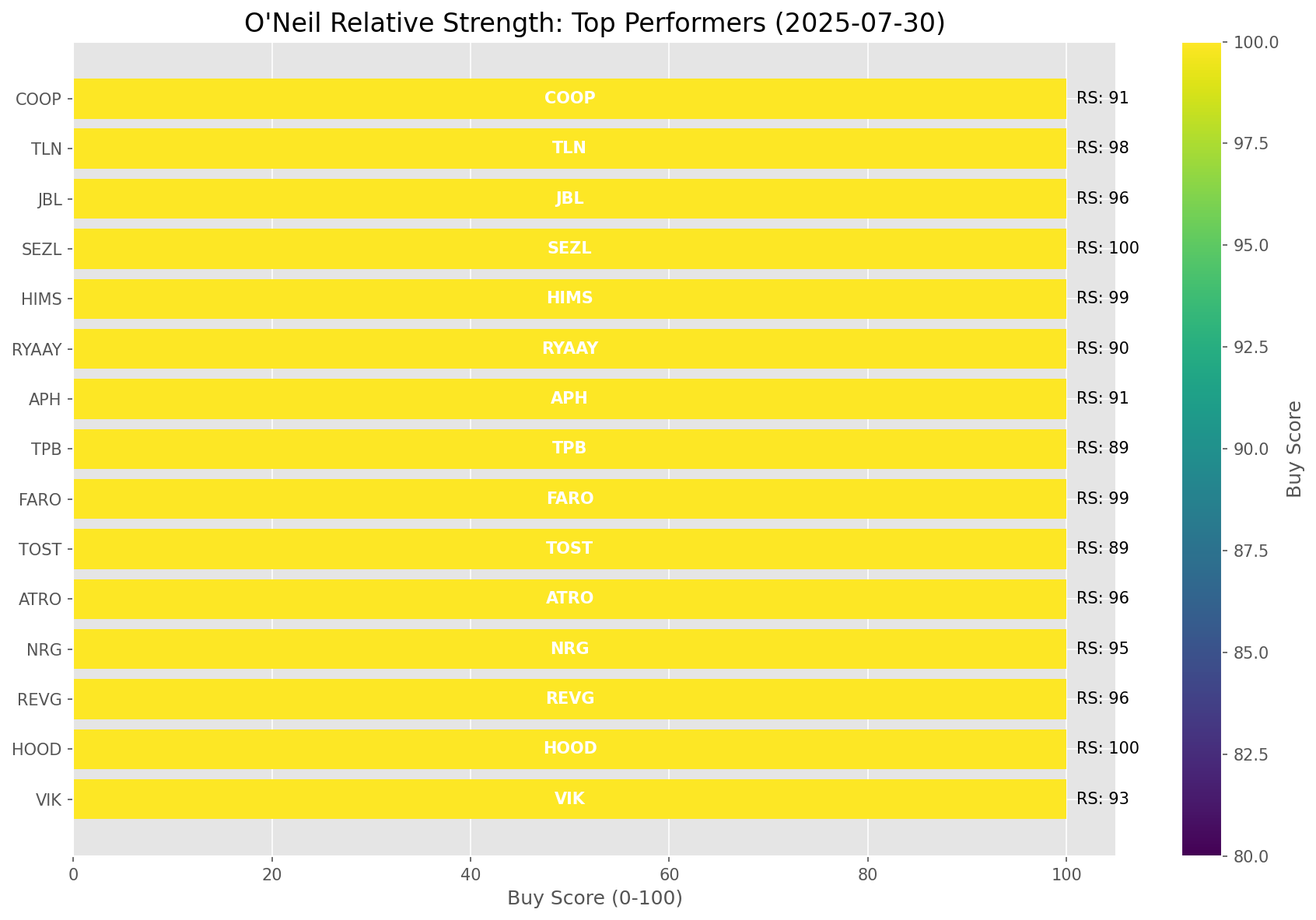
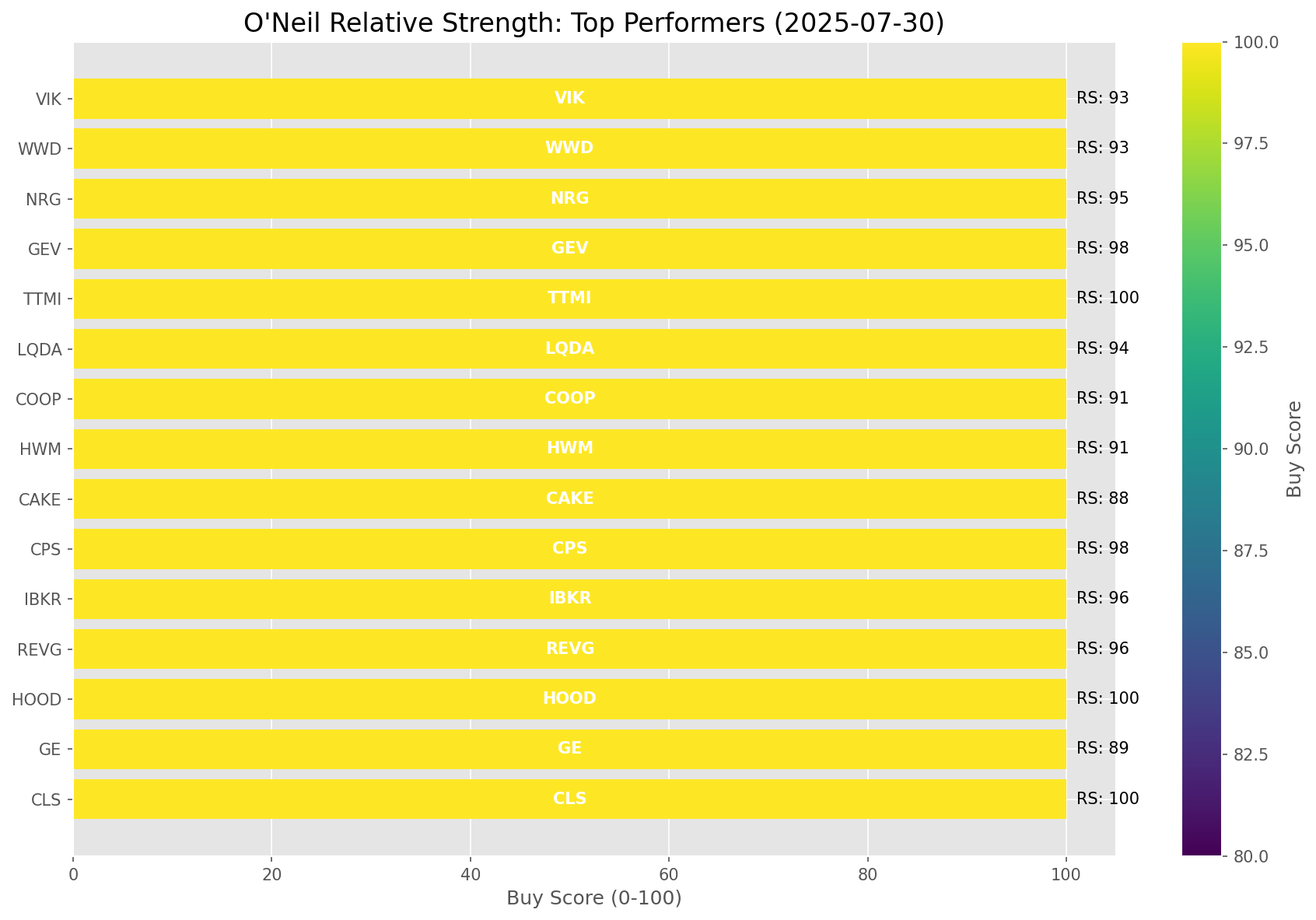
Add market report for 2025-07-30

diff --git a/oneil_relative_strength_report_2025-07-30.md b/oneil_relative_strength_report_2025-07-30.md
@@ -9,11 +9,11 @@
 | Metric | Value |
 |--------|-------|
 | **Market Valuation** | **Overvalued** |
-| **Current Ratio** | 10.32 |
+| **Current Ratio** | 10.31 |
 | **Historical Mean** | 9.50 |
 | **Standard Deviation** | 0.60 |
 | **Z-Score (StdDev from Mean)** | 1.34 |
-| **Total Market Cap** | $313.10 trillion |
+| **Total Market Cap** | $312.83 trillion |
 | **GDP** | $30.33 trillion |
 
 ## **Market Insights**
@@ -49,41 +49,41 @@ Based on William O'Neil's Relative Strength Methodology
 
 | ETF | Strength | RS Rating | Performance | Above Key MAs | Trend | Sector |
 |-----|----------|-----------|-------------|--------------|-------|--------|
-| [XLK](https://www.tradingview.com/chart/?symbol=XLK) | 91.5 | 83.0 | 26.51% | 10d ✓, 50d ✓, 200d ✓ | ↗ | Technology |
-| [URA](https://www.tradingview.com/chart/?symbol=URA) | 88.6 | 97.0 | 62.20% | 10d ✗, 50d ✓, 200d ✓ | ↗ | Uranium |
-| [AIQ](https://www.tradingview.com/chart/?symbol=AIQ) | 88.5 | 77.0 | 21.58% | 10d ✓, 50d ✓, 200d ✓ | ↗ | Artificial Intelligence & Technology |
-| [PAVE](https://www.tradingview.com/chart/?symbol=PAVE) | 88.5 | 77.0 | 21.39% | 10d ✓, 50d ✓, 200d ✓ | ↗ | Infrastructure |
+| [XLK](https://www.tradingview.com/chart/?symbol=XLK) | 91.5 | 83.0 | 26.47% | 10d ✓, 50d ✓, 200d ✓ | ↗ | Technology |
+| [URA](https://www.tradingview.com/chart/?symbol=URA) | 88.6 | 97.0 | 60.92% | 10d ✗, 50d ✓, 200d ✓ | ↗ | Uranium |
+| [PAVE](https://www.tradingview.com/chart/?symbol=PAVE) | 88.5 | 77.0 | 21.26% | 10d ✓, 50d ✓, 200d ✓ | ↗ | Infrastructure |
+| [AIQ](https://www.tradingview.com/chart/?symbol=AIQ) | 88.5 | 77.0 | 21.41% | 10d ✓, 50d ✓, 200d ✓ | ↗ | Artificial Intelligence & Technology |
+| [BLOK](https://www.tradingview.com/chart/?symbol=BLOK) | 87.6 | 95.0 | 48.15% | 10d ✗, 50d ✓, 200d ✓ | ↗ | Blockchain & Cryptocurrency |
 | [ARKW](https://www.tradingview.com/chart/?symbol=ARKW) | 87.6 | 95.0 | 50.78% | 10d ✗, 50d ✓, 200d ✓ | ↗ | Next Generation Internet |
-| [BLOK](https://www.tradingview.com/chart/?symbol=BLOK) | 87.6 | 95.0 | 48.50% | 10d ✗, 50d ✓, 200d ✓ | ↗ | Blockchain & Cryptocurrency |
-| [ARKK](https://www.tradingview.com/chart/?symbol=ARKK) | 87.1 | 94.0 | 47.08% | 10d ✗, 50d ✓, 200d ✓ | ↗ | Innovation |
-| [ARKF](https://www.tradingview.com/chart/?symbol=ARKF) | 87.1 | 94.0 | 47.13% | 10d ✗, 50d ✓, 200d ✓ | ↗ | Fintech Innovation |
-| [JETS](https://www.tradingview.com/chart/?symbol=JETS) | 79.1 | 78.0 | 21.95% | 10d ✗, 50d ✓, 200d ✓ | ↗ | Airlines |
-| [XLF](https://www.tradingview.com/chart/?symbol=XLF) | 76.0 | 52.0 | 8.66% | 10d ✓, 50d ✓, 200d ✓ | ↗ | Financial |
-| [XLI](https://www.tradingview.com/chart/?symbol=XLI) | 75.6 | 71.0 | 17.14% | 10d ✗, 50d ✓, 200d ✓ | ↗ | Industrial |
-| [SOXX](https://www.tradingview.com/chart/?symbol=SOXX) | 75.0 | 90.0 | 36.12% | 10d ✓, 50d ✓, 200d ✓ | ↘ | Semiconductors |
-| [XLU](https://www.tradingview.com/chart/?symbol=XLU) | 74.0 | 48.0 | 7.43% | 10d ✓, 50d ✓, 200d ✓ | ↗ | Utilities |
-| [SLV](https://www.tradingview.com/chart/?symbol=SLV) | 73.6 | 67.0 | 14.85% | 10d ✗, 50d ✓, 200d ✓ | ↗ | Silver |
+| [ARKK](https://www.tradingview.com/chart/?symbol=ARKK) | 87.1 | 94.0 | 46.98% | 10d ✗, 50d ✓, 200d ✓ | ↗ | Innovation |
+| [ARKF](https://www.tradingview.com/chart/?symbol=ARKF) | 87.1 | 94.0 | 47.34% | 10d ✗, 50d ✓, 200d ✓ | ↗ | Fintech Innovation |
+| [JETS](https://www.tradingview.com/chart/?symbol=JETS) | 79.1 | 78.0 | 21.85% | 10d ✗, 50d ✓, 200d ✓ | ↗ | Airlines |
+| [XLF](https://www.tradingview.com/chart/?symbol=XLF) | 76.0 | 52.0 | 8.59% | 10d ✓, 50d ✓, 200d ✓ | ↗ | Financial |
+| [XLI](https://www.tradingview.com/chart/?symbol=XLI) | 75.6 | 71.0 | 16.89% | 10d ✗, 50d ✓, 200d ✓ | ↗ | Industrial |
+| [SOXX](https://www.tradingview.com/chart/?symbol=SOXX) | 75.0 | 90.0 | 36.02% | 10d ✓, 50d ✓, 200d ✓ | ↘ | Semiconductors |
+| [XLU](https://www.tradingview.com/chart/?symbol=XLU) | 74.0 | 48.0 | 7.35% | 10d ✓, 50d ✓, 200d ✓ | ↗ | Utilities |
+| [SLV](https://www.tradingview.com/chart/?symbol=SLV) | 73.1 | 66.0 | 14.62% | 10d ✗, 50d ✓, 200d ✓ | ↗ | Silver |
 | [IYZ](https://www.tradingview.com/chart/?symbol=IYZ) | 70.6 | 61.0 | 12.49% | 10d ✗, 50d ✓, 200d ✓ | ↗ | Telecommunications |
-| [XLY](https://www.tradingview.com/chart/?symbol=XLY) | 70.6 | 61.0 | 12.48% | 10d ✗, 50d ✓, 200d ✓ | ↗ | Consumer Discretionary |
-| [XLC](https://www.tradingview.com/chart/?symbol=XLC) | 69.1 | 58.0 | 11.51% | 10d ✗, 50d ✓, 200d ✓ | ↗ | Communications |
-| [KWEB](https://www.tradingview.com/chart/?symbol=KWEB) | 68.1 | 56.0 | 10.57% | 10d ✗, 50d ✓, 200d ✓ | ↗ | Chinese Internet |
-| [CIBR](https://www.tradingview.com/chart/?symbol=CIBR) | 58.2 | 56.0 | 10.38% | 10d ✗, 50d ✗, 200d ✓ | ↗ | Cybersecurity |
-| [IBB](https://www.tradingview.com/chart/?symbol=IBB) | 54.0 | 48.0 | 7.41% | 10d ✓, 50d ✓, 200d ✓ | ↘ | Biotechnology |
-| [DBC](https://www.tradingview.com/chart/?symbol=DBC) | 53.0 | 46.0 | 6.88% | 10d ✓, 50d ✓, 200d ✓ | ↘ | Commodities |
-| [XLE](https://www.tradingview.com/chart/?symbol=XLE) | 52.5 | 45.0 | 6.45% | 10d ✓, 50d ✓, 200d ✓ | ↘ | Energy |
+| [XLY](https://www.tradingview.com/chart/?symbol=XLY) | 70.6 | 61.0 | 12.31% | 10d ✗, 50d ✓, 200d ✓ | ↗ | Consumer Discretionary |
+| [XLC](https://www.tradingview.com/chart/?symbol=XLC) | 69.6 | 59.0 | 11.75% | 10d ✗, 50d ✓, 200d ✓ | ↗ | Communications |
+| [CIBR](https://www.tradingview.com/chart/?symbol=CIBR) | 68.6 | 57.0 | 10.80% | 10d ✗, 50d ✓, 200d ✓ | ↗ | Cybersecurity |
+| [KWEB](https://www.tradingview.com/chart/?symbol=KWEB) | 67.6 | 55.0 | 10.07% | 10d ✗, 50d ✓, 200d ✓ | ↗ | Chinese Internet |
+| [IBB](https://www.tradingview.com/chart/?symbol=IBB) | 55.5 | 51.0 | 8.05% | 10d ✓, 50d ✓, 200d ✓ | ↘ | Biotechnology |
+| [DBC](https://www.tradingview.com/chart/?symbol=DBC) | 55.0 | 50.0 | 7.80% | 10d ✓, 50d ✓, 200d ✓ | ↘ | Commodities |
 | [ICLN](https://www.tradingview.com/chart/?symbol=ICLN) | 52.1 | 64.0 | 13.80% | 10d ✗, 50d ✓, 200d ✓ | ↘ | Clean Energy |
-| [IYT](https://www.tradingview.com/chart/?symbol=IYT) | 51.6 | 63.0 | 13.18% | 10d ✗, 50d ✓, 200d ✓ | ↘ | Transportation |
-| [ARKG](https://www.tradingview.com/chart/?symbol=ARKG) | 50.1 | 60.0 | 12.05% | 10d ✗, 50d ✓, 200d ✓ | ↘ | Genomics |
-| [IYR](https://www.tradingview.com/chart/?symbol=IYR) | 50.0 | 40.0 | 4.38% | 10d ✓, 50d ✓, 200d ✓ | ↘ | Real Estate |
-| [ITB](https://www.tradingview.com/chart/?symbol=ITB) | 46.8 | 54.0 | 9.56% | 10d ✓, 50d ✓, 200d ✗ | ↘ | Home Construction |
-| [XLB](https://www.tradingview.com/chart/?symbol=XLB) | 44.6 | 49.0 | 7.82% | 10d ✗, 50d ✓, 200d ✓ | ↘ | Materials |
-| [BIL](https://www.tradingview.com/chart/?symbol=BIL) | 43.0 | 26.0 | 0.04% | 10d ✓, 50d ✓, 200d ✓ | ↘ | Short-term Treasuries |
-| [GLD](https://www.tradingview.com/chart/?symbol=GLD) | 41.7 | 23.0 | -0.57% | 10d ✗, 50d ✗, 200d ✓ | ↗ | Gold |
+| [IYT](https://www.tradingview.com/chart/?symbol=IYT) | 51.6 | 63.0 | 13.13% | 10d ✗, 50d ✓, 200d ✓ | ↘ | Transportation |
+| [ARKG](https://www.tradingview.com/chart/?symbol=ARKG) | 50.1 | 60.0 | 12.16% | 10d ✗, 50d ✓, 200d ✓ | ↘ | Genomics |
+| [IYR](https://www.tradingview.com/chart/?symbol=IYR) | 50.0 | 40.0 | 4.32% | 10d ✓, 50d ✓, 200d ✓ | ↘ | Real Estate |
+| [ITB](https://www.tradingview.com/chart/?symbol=ITB) | 46.3 | 53.0 | 9.16% | 10d ✓, 50d ✓, 200d ✗ | ↘ | Home Construction |
+| [XLB](https://www.tradingview.com/chart/?symbol=XLB) | 44.6 | 49.0 | 7.59% | 10d ✗, 50d ✓, 200d ✓ | ↘ | Materials |
+| [BIL](https://www.tradingview.com/chart/?symbol=BIL) | 43.5 | 27.0 | 0.04% | 10d ✓, 50d ✓, 200d ✓ | ↘ | Short-term Treasuries |
+| [XLE](https://www.tradingview.com/chart/?symbol=XLE) | 42.3 | 45.0 | 6.21% | 10d ✓, 50d ✓, 200d ✗ | ↘ | Energy |
+| [GLD](https://www.tradingview.com/chart/?symbol=GLD) | 41.7 | 23.0 | -0.69% | 10d ✗, 50d ✗, 200d ✓ | ↗ | Gold |
 | [DBA](https://www.tradingview.com/chart/?symbol=DBA) | 37.4 | 15.0 | -4.55% | 10d ✓, 50d ✗, 200d ✗ | ↗ | Agriculture |
-| [UUP](https://www.tradingview.com/chart/?symbol=UUP) | 35.8 | 32.0 | 1.54% | 10d ✓, 50d ✓, 200d ✗ | ↘ | U.S. Dollar |
-| [XLV](https://www.tradingview.com/chart/?symbol=XLV) | 28.3 | 17.0 | -3.17% | 10d ✓, 50d ✓, 200d ✗ | ↘ | Healthcare |
-| [TLT](https://www.tradingview.com/chart/?symbol=TLT) | 27.8 | 16.0 | -3.80% | 10d ✓, 50d ✓, 200d ✗ | ↘ | Long-term Treasuries |
-| [XLP](https://www.tradingview.com/chart/?symbol=XLP) | 22.7 | 25.0 | -0.10% | 10d ✗, 50d ✗, 200d ✓ | ↘ | Consumer Staples |
+| [UUP](https://www.tradingview.com/chart/?symbol=UUP) | 35.8 | 32.0 | 1.48% | 10d ✓, 50d ✓, 200d ✗ | ↘ | U.S. Dollar |
+| [XLV](https://www.tradingview.com/chart/?symbol=XLV) | 28.3 | 17.0 | -3.35% | 10d ✓, 50d ✓, 200d ✗ | ↘ | Healthcare |
+| [TLT](https://www.tradingview.com/chart/?symbol=TLT) | 27.8 | 16.0 | -3.77% | 10d ✓, 50d ✓, 200d ✗ | ↘ | Long-term Treasuries |
+| [XLP](https://www.tradingview.com/chart/?symbol=XLP) | 22.7 | 25.0 | -0.38% | 10d ✗, 50d ✗, 200d ✓ | ↘ | Consumer Staples |
 
 ### **Sector ETF Performance Interpretation**
 
@@ -98,71 +98,75 @@ This table shows the relative strength metrics for different market sectors base
 
 ### **Current Sector Leadership**
 
-The current market leadership is coming from the following sectors: **Technology, Uranium, Artificial Intelligence & Technology**.
+The current market leadership is coming from the following sectors: **Technology, Uranium, Infrastructure**.
 
-The **Technology** sector (represented by **XLK**) is showing particularly strong relative strength with an RS rating of 83.0 and performance of 26.51% vs. the S&P 500. This sector is trading above its 10-day, 50-day, 200-day moving average(s). Investors should consider focusing on high RS stocks within these leading sectors for potential outperformance.
+The **Technology** sector (represented by **XLK**) is showing particularly strong relative strength with an RS rating of 83.0 and performance of 26.47% vs. the S&P 500. This sector is trading above its 10-day, 50-day, 200-day moving average(s). Investors should consider focusing on high RS stocks within these leading sectors for potential outperformance.
 
 ---
 
 ## **Buy Recommendations**
 
-The following 55 stocks show exceptional relative strength:
+The following 59 stocks show exceptional relative strength:
 
 | RS Rating | Buy Score | Current Price | Chart | Name | Ticker |
 |-----------|-----------|---------------|-------|------|--------|
-| 100 | 100 | $106.01 | [Chart](https://www.tradingview.com/chart/?symbol=HOOD) | Robinhood Markets, Inc. Class A Common Stock | HOOD |
-| 100 | 100 | $142.41 | [Chart](https://www.tradingview.com/chart/?symbol=SEZL) | Sezzle Inc. Common Stock | SEZL |
-| 100 | 100 | $50.34 | [Chart](https://www.tradingview.com/chart/?symbol=TTMI) | TTM Technologies Inc | TTMI |
-| 100 | 100 | $220.23 | [Chart](https://www.tradingview.com/chart/?symbol=DAVE) | Dave Inc. Class A Common Stock | DAVE |
-| 100 | 100 | $212.02 | [Chart](https://www.tradingview.com/chart/?symbol=CLS) | Celestica, Inc. | CLS |
-| 99 | 100 | $64.69 | [Chart](https://www.tradingview.com/chart/?symbol=HIMS) | Hims & Hers Health, Inc. | HIMS |
-| 99 | 100 | $75.90 | [Chart](https://www.tradingview.com/chart/?symbol=LIF) | Life360, Inc. Common Stock | LIF |
-| 99 | 100 | $122.24 | [Chart](https://www.tradingview.com/chart/?symbol=RBLX) | Roblox Corporation | RBLX |
-| 98 | 100 | $368.80 | [Chart](https://www.tradingview.com/chart/?symbol=TLN) | Talen Energy Corporation Common Stock | TLN |
-| 98 | 100 | $652.78 | [Chart](https://www.tradingview.com/chart/?symbol=GEV) | GE Vernova Inc. | GEV |
+| 100 | 100 | $203.50 | [Chart](https://www.tradingview.com/chart/?symbol=CLS) | Celestica, Inc. | CLS |
+| 100 | 100 | $106.26 | [Chart](https://www.tradingview.com/chart/?symbol=HOOD) | Robinhood Markets, Inc. Class A Common Stock | HOOD |
+| 100 | 100 | $49.28 | [Chart](https://www.tradingview.com/chart/?symbol=TTMI) | TTM Technologies Inc | TTMI |
+| 100 | 100 | $61.39 | [Chart](https://www.tradingview.com/chart/?symbol=MP) | MP Materials Corp. | MP |
+| 100 | 100 | $234.85 | [Chart](https://www.tradingview.com/chart/?symbol=DAVE) | Dave Inc. Class A Common Stock | DAVE |
+| 100 | 100 | $147.24 | [Chart](https://www.tradingview.com/chart/?symbol=SEZL) | Sezzle Inc. Common Stock | SEZL |
+| 99 | 100 | $76.90 | [Chart](https://www.tradingview.com/chart/?symbol=LIF) | Life360, Inc. Common Stock | LIF |
+| 99 | 100 | $64.74 | [Chart](https://www.tradingview.com/chart/?symbol=HIMS) | Hims & Hers Health, Inc. | HIMS |
+| 99 | 100 | $123.10 | [Chart](https://www.tradingview.com/chart/?symbol=RBLX) | Roblox Corporation | RBLX |
 | 98 | 100 | $24.74 | [Chart](https://www.tradingview.com/chart/?symbol=CPS) | Cooper-Standard Automotive Inc. | CPS |
-| 97 | 100 | $200.29 | [Chart](https://www.tradingview.com/chart/?symbol=NET) | Cloudflare, Inc. Class A common stock, par value $0.001 per share | NET |
-| 97 | 100 | $38.66 | [Chart](https://www.tradingview.com/chart/?symbol=AS) | Amer Sports, Inc. | AS |
-| 97 | 100 | $37.60 | [Chart](https://www.tradingview.com/chart/?symbol=NNE) | Nano Nuclear Energy Inc. Common Stock | NNE |
+| 98 | 100 | $649.13 | [Chart](https://www.tradingview.com/chart/?symbol=GEV) | GE Vernova Inc. | GEV |
+| 98 | 100 | $368.12 | [Chart](https://www.tradingview.com/chart/?symbol=TLN) | Talen Energy Corporation Common Stock | TLN |
+| 97 | 100 | $201.85 | [Chart](https://www.tradingview.com/chart/?symbol=NET) | Cloudflare, Inc. Class A common stock, par value $0.001 per share | NET |
+| 97 | 100 | $38.97 | [Chart](https://www.tradingview.com/chart/?symbol=AS) | Amer Sports, Inc. | AS |
+| 97 | 100 | $37.20 | [Chart](https://www.tradingview.com/chart/?symbol=NNE) | Nano Nuclear Energy Inc. Common Stock | NNE |
 | 96 | 100 | $48.81 | [Chart](https://www.tradingview.com/chart/?symbol=REVG) | REV Group, Inc. | REVG |
-| 96 | 100 | $34.65 | [Chart](https://www.tradingview.com/chart/?symbol=ATRO) | Astronics Corp | ATRO |
-| 96 | 100 | $230.82 | [Chart](https://www.tradingview.com/chart/?symbol=JBL) | Jabil Inc. | JBL |
-| 96 | 100 | $238.15 | [Chart](https://www.tradingview.com/chart/?symbol=AGX) | Argan, Inc | AGX |
-| 96 | 100 | $66.39 | [Chart](https://www.tradingview.com/chart/?symbol=IBKR) | Interactive Brokers Group, Inc. Class A Common Stock | IBKR |
-| 96 | 100 | $121.58 | [Chart](https://www.tradingview.com/chart/?symbol=SANM) | Sanmina  Corp | SANM |
-| 95 | 100 | $163.58 | [Chart](https://www.tradingview.com/chart/?symbol=NRG) | NRG Energy, Inc. | NRG |
-| 94 | 100 | $22.73 | [Chart](https://www.tradingview.com/chart/?symbol=MIR) | Mirion Technologies, Inc. | MIR |
-| 94 | 100 | $19.70 | [Chart](https://www.tradingview.com/chart/?symbol=LQDA) | Liquidia Corporation Common Stock | LQDA |
-| 93 | 100 | $58.63 | [Chart](https://www.tradingview.com/chart/?symbol=VIK) | Viking Holdings Ltd | VIK |
-| 93 | 100 | $262.11 | [Chart](https://www.tradingview.com/chart/?symbol=WWD) | Woodward, Inc. | WWD |
+| 96 | 100 | $66.08 | [Chart](https://www.tradingview.com/chart/?symbol=IBKR) | Interactive Brokers Group, Inc. Class A Common Stock | IBKR |
+| 96 | 100 | $35.44 | [Chart](https://www.tradingview.com/chart/?symbol=ATRO) | Astronics Corp | ATRO |
+| 96 | 100 | $228.31 | [Chart](https://www.tradingview.com/chart/?symbol=JBL) | Jabil Inc. | JBL |
+| 96 | 100 | $238.07 | [Chart](https://www.tradingview.com/chart/?symbol=AGX) | Argan, Inc | AGX |
+| 95 | 100 | $163.66 | [Chart](https://www.tradingview.com/chart/?symbol=NRG) | NRG Energy, Inc. | NRG |
+| 95 | 100 | $118.39 | [Chart](https://www.tradingview.com/chart/?symbol=SANM) | Sanmina  Corp | SANM |
+| 94 | 100 | $19.66 | [Chart](https://www.tradingview.com/chart/?symbol=LQDA) | Liquidia Corporation Common Stock | LQDA |
+| 93 | 100 | $264.33 | [Chart](https://www.tradingview.com/chart/?symbol=WWD) | Woodward, Inc. | WWD |
+| 93 | 100 | $58.87 | [Chart](https://www.tradingview.com/chart/?symbol=VIK) | Viking Holdings Ltd | VIK |
+| 93 | 100 | $22.54 | [Chart](https://www.tradingview.com/chart/?symbol=MIR) | Mirion Technologies, Inc. | MIR |
 | 93 | 100 | $105.24 | [Chart](https://www.tradingview.com/chart/?symbol=VRNA) | Verona Pharma plc | VRNA |
-| 91 | 100 | $105.83 | [Chart](https://www.tradingview.com/chart/?symbol=APH) | Amphenol Corporation | APH |
+| 91 | 100 | $191.31 | [Chart](https://www.tradingview.com/chart/?symbol=HWM) | Howmet Aerospace Inc. | HWM |
 | 91 | 100 | $159.71 | [Chart](https://www.tradingview.com/chart/?symbol=COOP) | Mr. Cooper Group Inc. Common Stock | COOP |
+| 91 | 100 | $95.39 | [Chart](https://www.tradingview.com/chart/?symbol=C) | Citigroup Inc. | C |
 | 91 | 100 | $42.39 | [Chart](https://www.tradingview.com/chart/?symbol=LTM) | LATAM Airlines Group S.A. American Depositary Shares (each representing two thousand (2,000) shares of Common Stock) | LTM |
-| 91 | 100 | $191.91 | [Chart](https://www.tradingview.com/chart/?symbol=HWM) | Howmet Aerospace Inc. | HWM |
-| 91 | 100 | $95.04 | [Chart](https://www.tradingview.com/chart/?symbol=C) | Citigroup Inc. | C |
-| 90 | 100 | $62.88 | [Chart](https://www.tradingview.com/chart/?symbol=RYAAY) | Ryanair Holdings plc American Depositary Shares | RYAAY |
-| 90 | 100 | $158.81 | [Chart](https://www.tradingview.com/chart/?symbol=PLTR) | Palantir Technologies Inc. Class A Common Stock | PLTR |
-| 90 | 100 | $271.99 | [Chart](https://www.tradingview.com/chart/?symbol=GE) | GE Aerospace | GE |
-| 89 | 100 | $48.59 | [Chart](https://www.tradingview.com/chart/?symbol=TOST) | Toast, Inc. | TOST |
+| 90 | 100 | $157.94 | [Chart](https://www.tradingview.com/chart/?symbol=PLTR) | Palantir Technologies Inc. Class A Common Stock | PLTR |
+| 90 | 100 | $104.82 | [Chart](https://www.tradingview.com/chart/?symbol=APH) | Amphenol Corporation | APH |
+| 89 | 100 | $269.98 | [Chart](https://www.tradingview.com/chart/?symbol=GE) | GE Aerospace | GE |
+| 89 | 100 | $48.84 | [Chart](https://www.tradingview.com/chart/?symbol=TOST) | Toast, Inc. | TOST |
 | 89 | 100 | $79.68 | [Chart](https://www.tradingview.com/chart/?symbol=TPB) | Turning Point Brands, Inc. | TPB |
-| 89 | 100 | $66.82 | [Chart](https://www.tradingview.com/chart/?symbol=CAKE) | Cheesecake Factory (The) | CAKE |
-| 86 | 99 | $91.92 | [Chart](https://www.tradingview.com/chart/?symbol=RBRK) | Rubrik, Inc. | RBRK |
-| 88 | 98 | $184.66 | [Chart](https://www.tradingview.com/chart/?symbol=AWI) | Armstrong World Industries, Inc. | AWI |
-| 87 | 97 | $49.47 | [Chart](https://www.tradingview.com/chart/?symbol=INOD) | Innodata Inc. | INOD |
-| 84 | 96 | $102.44 | [Chart](https://www.tradingview.com/chart/?symbol=BK) | Bank of New York Mellon Corporation | BK |
-| 84 | 95 | $287.23 | [Chart](https://www.tradingview.com/chart/?symbol=VEEV) | Veeva Systems Inc. | VEEV |
-| 81 | 95 | $20.01 | [Chart](https://www.tradingview.com/chart/?symbol=BCS) | Barclays PLC | BCS |
-| 83 | 94 | $146.26 | [Chart](https://www.tradingview.com/chart/?symbol=PPA) | Invesco Aerospace & Defense ETF | PPA |
-| 83 | 94 | $197.23 | [Chart](https://www.tradingview.com/chart/?symbol=ITA) | iShares U.S. Aerospace & Defense ETF | ITA |
-| 83 | 94 | $46.23 | [Chart](https://www.tradingview.com/chart/?symbol=BBIO) | BridgeBio Pharma, Inc. Common Stock | BBIO |
+| 88 | 100 | $66.02 | [Chart](https://www.tradingview.com/chart/?symbol=CAKE) | Cheesecake Factory (The) | CAKE |
+| 87 | 100 | $92.99 | [Chart](https://www.tradingview.com/chart/?symbol=RBRK) | Rubrik, Inc. | RBRK |
+| 86 | 97 | $146.73 | [Chart](https://www.tradingview.com/chart/?symbol=PPA) | Invesco Aerospace & Defense ETF | PPA |
+| 86 | 96 | $48.71 | [Chart](https://www.tradingview.com/chart/?symbol=INOD) | Innodata Inc. | INOD |
+| 86 | 96 | $188.09 | [Chart](https://www.tradingview.com/chart/?symbol=AWI) | Armstrong World Industries, Inc. | AWI |
+| 84 | 96 | $102.37 | [Chart](https://www.tradingview.com/chart/?symbol=BK) | Bank of New York Mellon Corporation | BK |
+| 83 | 96 | $67.52 | [Chart](https://www.tradingview.com/chart/?symbol=CHEF) | The Chef's Warehouse Inc | CHEF |
 | 83 | 94 | $72.39 | [Chart](https://www.tradingview.com/chart/?symbol=ULS) | UL Solutions Inc. | ULS |
-| 81 | 94 | $33.28 | [Chart](https://www.tradingview.com/chart/?symbol=DB) | Deutsche Bank Aktiengesellschaft | DB |
-| 81 | 94 | $66.61 | [Chart](https://www.tradingview.com/chart/?symbol=CHEF) | The Chef's Warehouse Inc | CHEF |
-| 83 | 93 | $95.92 | [Chart](https://www.tradingview.com/chart/?symbol=NDAQ) | Nasdaq, Inc. Common Stock | NDAQ |
+| 83 | 94 | $197.68 | [Chart](https://www.tradingview.com/chart/?symbol=ITA) | iShares U.S. Aerospace & Defense ETF | ITA |
+| 81 | 94 | $33.30 | [Chart](https://www.tradingview.com/chart/?symbol=DB) | Deutsche Bank Aktiengesellschaft | DB |
+| 80 | 94 | $19.99 | [Chart](https://www.tradingview.com/chart/?symbol=BCS) | Barclays PLC | BCS |
+| 83 | 93 | $96.04 | [Chart](https://www.tradingview.com/chart/?symbol=NDAQ) | Nasdaq, Inc. Common Stock | NDAQ |
+| 81 | 93 | $397.46 | [Chart](https://www.tradingview.com/chart/?symbol=LPLA) | LPL Financial Holdings Inc. | LPLA |
+| 81 | 93 | $67.27 | [Chart](https://www.tradingview.com/chart/?symbol=IBIT) | iShares Bitcoin Trust ETF | IBIT |
+| 81 | 93 | $52.47 | [Chart](https://www.tradingview.com/chart/?symbol=BTC) | Grayscale Bitcoin Mini Trust ETF | BTC |
+| 81 | 93 | $33.51 | [Chart](https://www.tradingview.com/chart/?symbol=HODL) | VanEck Bitcoin ETF | HODL |
 | 81 | 93 | $141.80 | [Chart](https://www.tradingview.com/chart/?symbol=VSEC) | VSE Corp | VSEC |
-| 80 | 92 | $52.92 | [Chart](https://www.tradingview.com/chart/?symbol=BTI) | British American Tobacco p.l.c. American Depositary Shares, American Depositary Shares, each representing one Ordinary Share | BTI |
-| 80 | 92 | $390.67 | [Chart](https://www.tradingview.com/chart/?symbol=LPLA) | LPL Financial Holdings Inc. | LPLA |
+| 82 | 92 | $86.55 | [Chart](https://www.tradingview.com/chart/?symbol=BYD) | Boyd Gaming Corporation | BYD |
+| 81 | 92 | $287.52 | [Chart](https://www.tradingview.com/chart/?symbol=VEEV) | Veeva Systems Inc. | VEEV |
+| 80 | 92 | $52.97 | [Chart](https://www.tradingview.com/chart/?symbol=BTI) | British American Tobacco p.l.c. American Depositary Shares, American Depositary Shares, each representing one Ordinary Share | BTI |
+| 80 | 92 | $435.89 | [Chart](https://www.tradingview.com/chart/?symbol=CYBR) | CyberArk Software Ltd. | CYBR |
 | 80 | 90 | $49.34 | [Chart](https://www.tradingview.com/chart/?symbol=FHI) | Federated Hermes, Inc. | FHI |
 | 80 | 90 | $111.40 | [Chart](https://www.tradingview.com/chart/?symbol=SXT) | Sensient Technology Corporation | SXT |
 
@@ -171,109 +175,107 @@ The following 55 stocks show exceptional relative strength:
 
 ## **Sell Recommendations**
 
-The following 99 stocks show deteriorating relative strength:
+The following 97 stocks show deteriorating relative strength:
 
 | RS Rating | Sell Score | Current Price | Chart | Name | Ticker |
 |-----------|------------|---------------|-------|------|--------|
-| 1 | 100 | $23.62 | [Chart](https://www.tradingview.com/chart/?symbol=TECS) | Direxion Daily Technology Bear 3x Shares | TECS |
-| 1 | 100 | $12.01 | [Chart](https://www.tradingview.com/chart/?symbol=NVDS) | Investment Managers Series Trust II Tradr 1.5X Short NVDA Daily ETF | NVDS |
-| 2 | 100 | $24.07 | [Chart](https://www.tradingview.com/chart/?symbol=QID) | ProShares UltraShort QQQ | QID |
-| 2 | 100 | $12.72 | [Chart](https://www.tradingview.com/chart/?symbol=CDNA) | CareDx, Inc. | CDNA |
-| 2 | 100 | $40.13 | [Chart](https://www.tradingview.com/chart/?symbol=SDOW) | ProShares UltraPro Short Dow 30 | SDOW |
-| 2 | 100 | $54.04 | [Chart](https://www.tradingview.com/chart/?symbol=GMED) | GLOBUS MEDICAL INC | GMED |
-| 2 | 100 | $72.20 | [Chart](https://www.tradingview.com/chart/?symbol=LNTH) | Lantheus Holdings, Inc | LNTH |
-| 2 | 100 | $14.49 | [Chart](https://www.tradingview.com/chart/?symbol=CLBT) | Cellebrite DI Ltd. Class A Ordinary Shares | CLBT |
+| 1 | 100 | $23.64 | [Chart](https://www.tradingview.com/chart/?symbol=TECS) | Direxion Daily Technology Bear 3x Shares | TECS |
+| 1 | 100 | $11.99 | [Chart](https://www.tradingview.com/chart/?symbol=NVDS) | Investment Managers Series Trust II Tradr 1.5X Short NVDA Daily ETF | NVDS |
+| 2 | 100 | $54.48 | [Chart](https://www.tradingview.com/chart/?symbol=GMED) | GLOBUS MEDICAL INC | GMED |
 | 2 | 100 | $17.80 | [Chart](https://www.tradingview.com/chart/?symbol=GPCR) | Structure Therapeutics Inc. American Depositary Shares | GPCR |
-| 3 | 100 | $23.70 | [Chart](https://www.tradingview.com/chart/?symbol=DUST) | Direxion Daily Gold Miners Index Bear 2X Shares | DUST |
+| 2 | 100 | $13.03 | [Chart](https://www.tradingview.com/chart/?symbol=CDNA) | CareDx, Inc. | CDNA |
+| 2 | 100 | $14.27 | [Chart](https://www.tradingview.com/chart/?symbol=CLBT) | Cellebrite DI Ltd. Class A Ordinary Shares | CLBT |
+| 2 | 100 | $24.07 | [Chart](https://www.tradingview.com/chart/?symbol=QID) | ProShares UltraShort QQQ | QID |
+| 2 | 100 | $40.39 | [Chart](https://www.tradingview.com/chart/?symbol=SDOW) | ProShares UltraPro Short Dow 30 | SDOW |
+| 2 | 100 | $72.20 | [Chart](https://www.tradingview.com/chart/?symbol=LNTH) | Lantheus Holdings, Inc | LNTH |
+| 3 | 100 | $23.80 | [Chart](https://www.tradingview.com/chart/?symbol=DUST) | Direxion Daily Gold Miners Index Bear 2X Shares | DUST |
+| 3 | 100 | $23.63 | [Chart](https://www.tradingview.com/chart/?symbol=ZSL) | ProShares UltraShort Silver | ZSL |
 | 3 | 100 | $64.46 | [Chart](https://www.tradingview.com/chart/?symbol=SKY) | Champion Homes, Inc. | SKY |
-| 3 | 100 | $23.54 | [Chart](https://www.tradingview.com/chart/?symbol=ZSL) | ProShares UltraShort Silver | ZSL |
 | 3 | 100 | $14.71 | [Chart](https://www.tradingview.com/chart/?symbol=PLSE) | Pulse Biosciences, Inc Common Stock (DE) | PLSE |
-| 4 | 100 | $22.75 | [Chart](https://www.tradingview.com/chart/?symbol=HELE) | Helen Of Troy Ltd | HELE |
-| 4 | 100 | $12.61 | [Chart](https://www.tradingview.com/chart/?symbol=PSFE) | Paysafe Limited | PSFE |
 | 4 | 100 | $16.43 | [Chart](https://www.tradingview.com/chart/?symbol=BTAL) | AGF U.S. Market Neutral Anti-Beta Fund | BTAL |
+| 4 | 100 | $12.61 | [Chart](https://www.tradingview.com/chart/?symbol=PSFE) | Paysafe Limited | PSFE |
+| 4 | 100 | $22.61 | [Chart](https://www.tradingview.com/chart/?symbol=HELE) | Helen Of Troy Ltd | HELE |
 | 4 | 100 | $48.13 | [Chart](https://www.tradingview.com/chart/?symbol=SLVM) | Sylvamo Corporation | SLVM |
-| 5 | 100 | $29.63 | [Chart](https://www.tradingview.com/chart/?symbol=FUN) | Six Flags Entertainment Corporation | FUN |
+| 6 | 100 | $46.67 | [Chart](https://www.tradingview.com/chart/?symbol=CCOI) | Cogent Communications Holdings, Inc. | CCOI |
 | 6 | 100 | $10.18 | [Chart](https://www.tradingview.com/chart/?symbol=IMXI) | International Money Express, Inc. | IMXI |
-| 7 | 100 | $38.80 | [Chart](https://www.tradingview.com/chart/?symbol=SH) | ProShares Short S&P500 | SH |
-| 7 | 100 | $53.51 | [Chart](https://www.tradingview.com/chart/?symbol=TSN) | Tyson Foods, Inc. | TSN |
-| 8 | 100 | $27.99 | [Chart](https://www.tradingview.com/chart/?symbol=DOCN) | DigitalOcean Holdings, Inc. | DOCN |
-| 8 | 100 | $14.09 | [Chart](https://www.tradingview.com/chart/?symbol=DXC) | DXC Technology Company | DXC |
-| 9 | 100 | $55.03 | [Chart](https://www.tradingview.com/chart/?symbol=HRB) | H&R Block, Inc. | HRB |
-| 12 | 100 | $126.73 | [Chart](https://www.tradingview.com/chart/?symbol=ICUI) | ICU Medical Inc | ICUI |
+| 7 | 100 | $38.83 | [Chart](https://www.tradingview.com/chart/?symbol=SH) | ProShares Short S&P500 | SH |
+| 7 | 100 | $53.28 | [Chart](https://www.tradingview.com/chart/?symbol=TSN) | Tyson Foods, Inc. | TSN |
+| 8 | 100 | $28.14 | [Chart](https://www.tradingview.com/chart/?symbol=DOCN) | DigitalOcean Holdings, Inc. | DOCN |
+| 9 | 100 | $54.95 | [Chart](https://www.tradingview.com/chart/?symbol=HRB) | H&R Block, Inc. | HRB |
+| 9 | 100 | $14.11 | [Chart](https://www.tradingview.com/chart/?symbol=DXC) | DXC Technology Company | DXC |
+| 12 | 100 | $18.83 | [Chart](https://www.tradingview.com/chart/?symbol=AMN) | AMN Healthcare Services | AMN |
 | 12 | 100 | $15.16 | [Chart](https://www.tradingview.com/chart/?symbol=FIHL) | Fidelis Insurance Holdings Limited | FIHL |
+| 12 | 100 | $126.73 | [Chart](https://www.tradingview.com/chart/?symbol=ICUI) | ICU Medical Inc | ICUI |
 | 13 | 100 | $16.70 | [Chart](https://www.tradingview.com/chart/?symbol=UMH) | UMH Properties, Inc. | UMH |
-| 1 | 99 | $10.63 | [Chart](https://www.tradingview.com/chart/?symbol=TZA) | Direxion Daily Small Cap Bear 3x Shares | TZA |
 | 5 | 99 | $20.75 | [Chart](https://www.tradingview.com/chart/?symbol=ERY) | Direxion Daily Energy Bear 2X Shares | ERY |
-| 5 | 99 | $23.74 | [Chart](https://www.tradingview.com/chart/?symbol=DXD) | ProShares UltraShort Dow 30 | DXD |
-| 9 | 99 | $19.59 | [Chart](https://www.tradingview.com/chart/?symbol=GAP) | The Gap, Inc. | GAP |
+| 6 | 99 | $30.09 | [Chart](https://www.tradingview.com/chart/?symbol=FUN) | Six Flags Entertainment Corporation | FUN |
+| 10 | 99 | $22.05 | [Chart](https://www.tradingview.com/chart/?symbol=RPD) | Rapid7, Inc. Common Stock | RPD |
 | 14 | 99 | $71.33 | [Chart](https://www.tradingview.com/chart/?symbol=NHI) | National Health Investors | NHI |
-| 6 | 98 | $44.00 | [Chart](https://www.tradingview.com/chart/?symbol=CMG) | Chipotle Mexican Grill, Inc. | CMG |
-| 6 | 97 | $772.25 | [Chart](https://www.tradingview.com/chart/?symbol=LLY) | Eli Lilly & Co. | LLY |
-| 11 | 97 | $37.69 | [Chart](https://www.tradingview.com/chart/?symbol=KSA) | iShares MSCI Saudi Arabia ETF | KSA |
+| 5 | 98 | $23.86 | [Chart](https://www.tradingview.com/chart/?symbol=DXD) | ProShares UltraShort Dow 30 | DXD |
+| 9 | 98 | $19.57 | [Chart](https://www.tradingview.com/chart/?symbol=GAP) | The Gap, Inc. | GAP |
+| 16 | 98 | $198.64 | [Chart](https://www.tradingview.com/chart/?symbol=AVB) | AvalonBay Communities, Inc. | AVB |
+| 6 | 97 | $769.83 | [Chart](https://www.tradingview.com/chart/?symbol=LLY) | Eli Lilly & Co. | LLY |
+| 6 | 97 | $44.12 | [Chart](https://www.tradingview.com/chart/?symbol=CMG) | Chipotle Mexican Grill, Inc. | CMG |
 | 11 | 97 | $10.72 | [Chart](https://www.tradingview.com/chart/?symbol=SD) | SandRidge Energy, Inc. | SD |
-| 10 | 96 | $28.46 | [Chart](https://www.tradingview.com/chart/?symbol=BAX) | Baxter International Inc. | BAX |
-| 13 | 96 | $14.04 | [Chart](https://www.tradingview.com/chart/?symbol=OCSL) | Oaktree Specialty Lending Corporation | OCSL |
-| 7 | 95 | $10.07 | [Chart](https://www.tradingview.com/chart/?symbol=SPDN) | Direxion Daily S&P 500 Bear 1X Shares | SPDN |
-| 8 | 95 | $17.25 | [Chart](https://www.tradingview.com/chart/?symbol=IRT) | Independence Realty Trust Inc. | IRT |
-| 12 | 95 | $103.38 | [Chart](https://www.tradingview.com/chart/?symbol=DEO) | Diageo plc | DEO |
-| 12 | 95 | $332.28 | [Chart](https://www.tradingview.com/chart/?symbol=EG) | Everest Group, Ltd. | EG |
-| 13 | 94 | $87.19 | [Chart](https://www.tradingview.com/chart/?symbol=CL) | Colgate-Palmolive Company | CL |
-| 14 | 94 | $46.96 | [Chart](https://www.tradingview.com/chart/?symbol=BMY) | Bristol-Myers Squibb Co. | BMY |
-| 14 | 94 | $73.74 | [Chart](https://www.tradingview.com/chart/?symbol=IFF) | International Flavors & Fragrances Inc. | IFF |
-| 16 | 94 | $10.49 | [Chart](https://www.tradingview.com/chart/?symbol=ACIC) | American Coastal Insurance Corporation Common Stock | ACIC |
-| 19 | 94 | $203.12 | [Chart](https://www.tradingview.com/chart/?symbol=AVB) | AvalonBay Communities, Inc. | AVB |
-| 14 | 93 | $36.99 | [Chart](https://www.tradingview.com/chart/?symbol=PBA) | PEMBINA PIPELINE CORPORATION | PBA |
-| 15 | 93 | $44.38 | [Chart](https://www.tradingview.com/chart/?symbol=BILL) | BILL Holdings, Inc. | BILL |
+| 16 | 97 | $14.07 | [Chart](https://www.tradingview.com/chart/?symbol=OCSL) | Oaktree Specialty Lending Corporation | OCSL |
+| 5 | 96 | $44.13 | [Chart](https://www.tradingview.com/chart/?symbol=ACIW) | ACI Worldwide, Inc. | ACIW |
+| 11 | 96 | $332.39 | [Chart](https://www.tradingview.com/chart/?symbol=EG) | Everest Group, Ltd. | EG |
+| 11 | 96 | $37.66 | [Chart](https://www.tradingview.com/chart/?symbol=KSA) | iShares MSCI Saudi Arabia ETF | KSA |
+| 13 | 96 | $209.09 | [Chart](https://www.tradingview.com/chart/?symbol=MKTX) | MarketAxess Holdings Inc. | MKTX |
+| 13 | 95 | $14.06 | [Chart](https://www.tradingview.com/chart/?symbol=ACVA) | ACV Auctions Inc. | ACVA |
+| 15 | 95 | $36.86 | [Chart](https://www.tradingview.com/chart/?symbol=PBA) | PEMBINA PIPELINE CORPORATION | PBA |
+| 7 | 94 | $10.09 | [Chart](https://www.tradingview.com/chart/?symbol=SPDN) | Direxion Daily S&P 500 Bear 1X Shares | SPDN |
+| 11 | 94 | $28.57 | [Chart](https://www.tradingview.com/chart/?symbol=BAX) | Baxter International Inc. | BAX |
+| 13 | 94 | $86.86 | [Chart](https://www.tradingview.com/chart/?symbol=CL) | Colgate-Palmolive Company | CL |
+| 14 | 94 | $46.77 | [Chart](https://www.tradingview.com/chart/?symbol=BMY) | Bristol-Myers Squibb Co. | BMY |
+| 15 | 94 | $13.10 | [Chart](https://www.tradingview.com/chart/?symbol=CCRN) | Cross Country Healthcare Inc | CCRN |
 | 15 | 93 | $20.24 | [Chart](https://www.tradingview.com/chart/?symbol=AVBP) | ArriVent BioPharma, Inc. Common Stock | AVBP |
+| 17 | 93 | $10.49 | [Chart](https://www.tradingview.com/chart/?symbol=ACIC) | American Coastal Insurance Corporation Common Stock | ACIC |
 | 18 | 93 | $21.61 | [Chart](https://www.tradingview.com/chart/?symbol=TUA) | Simplify Short Term Treasury Futures Strategy ETF | TUA |
-| 19 | 93 | $11.58 | [Chart](https://www.tradingview.com/chart/?symbol=NVG) | Nuveen AMT-Free Municipal Credit Income Fund | NVG |
-| 20 | 93 | $102.35 | [Chart](https://www.tradingview.com/chart/?symbol=PRU) | Prudential Financial, Inc. | PRU |
-| 10 | 92 | $99.90 | [Chart](https://www.tradingview.com/chart/?symbol=AFL) | Aflac Inc. | AFL |
+| 20 | 93 | $102.18 | [Chart](https://www.tradingview.com/chart/?symbol=PRU) | Prudential Financial, Inc. | PRU |
+| 10 | 92 | $99.36 | [Chart](https://www.tradingview.com/chart/?symbol=AFL) | Aflac Inc. | AFL |
 | 11 | 92 | $73.26 | [Chart](https://www.tradingview.com/chart/?symbol=AWR) | American States Water Company | AWR |
-| 12 | 92 | $36.86 | [Chart](https://www.tradingview.com/chart/?symbol=MSTX) | Tidal Trust II Defiance Daily Target 2x Long MSTR ETF | MSTX |
-| 13 | 92 | $59.58 | [Chart](https://www.tradingview.com/chart/?symbol=UL) | Unilever plc | UL |
-| 14 | 92 | $207.17 | [Chart](https://www.tradingview.com/chart/?symbol=MKTX) | MarketAxess Holdings Inc. | MKTX |
+| 11 | 92 | $28.60 | [Chart](https://www.tradingview.com/chart/?symbol=APPN) | Appian Corporation Class A Common Stock | APPN |
+| 13 | 92 | $59.49 | [Chart](https://www.tradingview.com/chart/?symbol=UL) | Unilever plc | UL |
 | 15 | 92 | $11.53 | [Chart](https://www.tradingview.com/chart/?symbol=PACS) | PACS Group, Inc. | PACS |
-| 21 | 91 | $11.12 | [Chart](https://www.tradingview.com/chart/?symbol=NAD) | Nuveen Quality Municipal Income Fund | NAD |
-| 21 | 91 | $11.67 | [Chart](https://www.tradingview.com/chart/?symbol=NZF) | Nuveen Municipal Credit Income Fund | NZF |
+| 20 | 92 | $11.59 | [Chart](https://www.tradingview.com/chart/?symbol=NVG) | Nuveen AMT-Free Municipal Credit Income Fund | NVG |
+| 18 | 91 | $291.89 | [Chart](https://www.tradingview.com/chart/?symbol=UTHR) | United Therapeutics Corp | UTHR |
+| 21 | 91 | $11.65 | [Chart](https://www.tradingview.com/chart/?symbol=NZF) | Nuveen Municipal Credit Income Fund | NZF |
 | 22 | 91 | $10.84 | [Chart](https://www.tradingview.com/chart/?symbol=MQY) | Blackrock Muni Yield Quality Fund, Inc | MQY |
-| 15 | 90 | $14.09 | [Chart](https://www.tradingview.com/chart/?symbol=ACVA) | ACV Auctions Inc. | ACVA |
-| 20 | 90 | $296.33 | [Chart](https://www.tradingview.com/chart/?symbol=UTHR) | United Therapeutics Corp | UTHR |
-| 23 | 90 | $10.75 | [Chart](https://www.tradingview.com/chart/?symbol=NEA) | Nuveen AMT-Free Quality Municipal Income Fund | NEA |
-| 18 | 89 | $35.66 | [Chart](https://www.tradingview.com/chart/?symbol=AMH) | AMERICAN HOMES 4 RENT | AMH |
-| 17 | 88 | $214.00 | [Chart](https://www.tradingview.com/chart/?symbol=AMT) | American Tower Corporation | AMT |
-| 19 | 88 | $127.83 | [Chart](https://www.tradingview.com/chart/?symbol=KMB) | Kimberly-Clark Corp. | KMB |
+| 13 | 90 | $26.28 | [Chart](https://www.tradingview.com/chart/?symbol=FCPT) | Four Corners Property Trust, Inc. | FCPT |
+| 15 | 90 | $212.05 | [Chart](https://www.tradingview.com/chart/?symbol=AMT) | American Tower Corporation | AMT |
+| 18 | 90 | $45.01 | [Chart](https://www.tradingview.com/chart/?symbol=BILL) | BILL Holdings, Inc. | BILL |
+| 14 | 89 | $37.48 | [Chart](https://www.tradingview.com/chart/?symbol=MSTX) | Tidal Trust II Defiance Daily Target 2x Long MSTR ETF | MSTX |
+| 22 | 89 | $11.13 | [Chart](https://www.tradingview.com/chart/?symbol=NAD) | Nuveen Quality Municipal Income Fund | NAD |
+| 23 | 89 | $10.76 | [Chart](https://www.tradingview.com/chart/?symbol=NEA) | Nuveen AMT-Free Quality Municipal Income Fund | NEA |
+| 15 | 88 | $150.14 | [Chart](https://www.tradingview.com/chart/?symbol=MAA) | Mid-America Apartment Communities, Inc. | MAA |
+| 18 | 88 | $126.87 | [Chart](https://www.tradingview.com/chart/?symbol=KMB) | Kimberly-Clark Corp. | KMB |
+| 19 | 88 | $35.78 | [Chart](https://www.tradingview.com/chart/?symbol=AMH) | AMERICAN HOMES 4 RENT | AMH |
 | 14 | 87 | $37.40 | [Chart](https://www.tradingview.com/chart/?symbol=LZB) | La-Z-Boy Incorporated | LZB |
-| 16 | 87 | $185.18 | [Chart](https://www.tradingview.com/chart/?symbol=AIZ) | Assurant, Inc. | AIZ |
-| 17 | 87 | $28.60 | [Chart](https://www.tradingview.com/chart/?symbol=HRL) | Hormel Foods Corporation | HRL |
+| 17 | 87 | $28.59 | [Chart](https://www.tradingview.com/chart/?symbol=HRL) | Hormel Foods Corporation | HRL |
+| 16 | 86 | $334.35 | [Chart](https://www.tradingview.com/chart/?symbol=SHW) | The Sherwin-Williams Company | SHW |
+| 17 | 86 | $185.18 | [Chart](https://www.tradingview.com/chart/?symbol=AIZ) | Assurant, Inc. | AIZ |
 | 22 | 86 | $10.07 | [Chart](https://www.tradingview.com/chart/?symbol=NMZ) | Nuveen Municipal High Income Opportunity Fund | NMZ |
-| 25 | 86 | $19.34 | [Chart](https://www.tradingview.com/chart/?symbol=AMN) | AMN Healthcare Services | AMN |
-| 17 | 85 | $336.07 | [Chart](https://www.tradingview.com/chart/?symbol=SHW) | The Sherwin-Williams Company | SHW |
-| 18 | 85 | $26.62 | [Chart](https://www.tradingview.com/chart/?symbol=EWZ) | iShares MSCI Brazil ETF | EWZ |
-| 19 | 85 | $168.23 | [Chart](https://www.tradingview.com/chart/?symbol=IEX) | IDEX Corporation | IEX |
-| 28 | 84 | $16.20 | [Chart](https://www.tradingview.com/chart/?symbol=XP) | XP Inc. Class A Common Stock | XP |
-| 17 | 83 | $86.65 | [Chart](https://www.tradingview.com/chart/?symbol=BIDU) | Baidu, Inc. | BIDU |
-| 22 | 83 | $15.88 | [Chart](https://www.tradingview.com/chart/?symbol=CHCT) | Community Healthcare Trust Incorporated Common Stock, $0.01 par value per share | CHCT |
-| 25 | 83 | $25.50 | [Chart](https://www.tradingview.com/chart/?symbol=HPQ) | HP Inc. | HPQ |
-| 28 | 81 | $76.73 | [Chart](https://www.tradingview.com/chart/?symbol=MET) | MetLife, Inc. | MET |
-| 29 | 81 | $50.74 | [Chart](https://www.tradingview.com/chart/?symbol=POWI) | Power Integrations Inc | POWI |
-| 21 | 79 | $264.95 | [Chart](https://www.tradingview.com/chart/?symbol=CRM) | Salesforce, Inc. | CRM |
-| 24 | 78 | $14.35 | [Chart](https://www.tradingview.com/chart/?symbol=INMD) | InMode Ltd. Ordinary Shares | INMD |
-| 24 | 78 | $26.29 | [Chart](https://www.tradingview.com/chart/?symbol=ALKT) | Alkami Technology, Inc. Common Stock | ALKT |
+| 17 | 85 | $26.45 | [Chart](https://www.tradingview.com/chart/?symbol=EWZ) | iShares MSCI Brazil ETF | EWZ |
+| 20 | 85 | $238.26 | [Chart](https://www.tradingview.com/chart/?symbol=WDAY) | Workday, Inc. Class A Common Stock | WDAY |
+| 22 | 85 | $25.30 | [Chart](https://www.tradingview.com/chart/?symbol=HPQ) | HP Inc. | HPQ |
+| 27 | 82 | $76.42 | [Chart](https://www.tradingview.com/chart/?symbol=MET) | MetLife, Inc. | MET |
+| 30 | 82 | $16.27 | [Chart](https://www.tradingview.com/chart/?symbol=XP) | XP Inc. Class A Common Stock | XP |
+| 38 | 80 | $17.16 | [Chart](https://www.tradingview.com/chart/?symbol=SVOL) | Simplify Volatility Premium ETF | SVOL |
 | 30 | 78 | $31.26 | [Chart](https://www.tradingview.com/chart/?symbol=MBIN) | Merchants Bancorp Common Stock | MBIN |
-| 25 | 77 | $239.63 | [Chart](https://www.tradingview.com/chart/?symbol=WDAY) | Workday, Inc. Class A Common Stock | WDAY |
-| 33 | 76 | $24.20 | [Chart](https://www.tradingview.com/chart/?symbol=PFE) | Pfizer Inc. | PFE |
-| 28 | 75 | $113.40 | [Chart](https://www.tradingview.com/chart/?symbol=CPT) | Camden Property Trust | CPT |
+| 33 | 78 | $24.84 | [Chart](https://www.tradingview.com/chart/?symbol=CLW) | Clearwater Paper Corporation | CLW |
+| 30 | 77 | $12.51 | [Chart](https://www.tradingview.com/chart/?symbol=NU) | Nu Holdings Ltd. | NU |
+| 26 | 76 | $26.41 | [Chart](https://www.tradingview.com/chart/?symbol=ALKT) | Alkami Technology, Inc. Common Stock | ALKT |
+| 32 | 76 | $24.14 | [Chart](https://www.tradingview.com/chart/?symbol=PFE) | Pfizer Inc. | PFE |
 | 32 | 75 | $10.96 | [Chart](https://www.tradingview.com/chart/?symbol=NAC) | Nuveen California Quality Municipal Income Fund | NAC |
-| 33 | 74 | $13.06 | [Chart](https://www.tradingview.com/chart/?symbol=ARCT) | Arcturus Therapeutics Holdings Inc. Common Stock | ARCT |
-| 33 | 74 | $12.62 | [Chart](https://www.tradingview.com/chart/?symbol=NU) | Nu Holdings Ltd. | NU |
-| 37 | 72 | $162.08 | [Chart](https://www.tradingview.com/chart/?symbol=NICE) | NICE Ltd | NICE |
-| 37 | 69 | $33.32 | [Chart](https://www.tradingview.com/chart/?symbol=DAR) | DARLING INGREDIENTS INC. | DAR |
-| 35 | 68 | $14.58 | [Chart](https://www.tradingview.com/chart/?symbol=OBDC) | Blue Owl Capital Corporation | OBDC |
-| 36 | 67 | $26.02 | [Chart](https://www.tradingview.com/chart/?symbol=RNG) | RINGCENTRAL, INC. | RNG |
-| 37 | 67 | $90.01 | [Chart](https://www.tradingview.com/chart/?symbol=LPX) | Louisiana-Pacific Corp. | LPX |
-| 38 | 67 | $107.50 | [Chart](https://www.tradingview.com/chart/?symbol=PPG) | PPG Industries, Inc. | PPG |
-| 39 | 67 | $55.74 | [Chart](https://www.tradingview.com/chart/?symbol=ALRM) | Alarm.com Holdings, Inc. | ALRM |
+| 37 | 75 | $50.73 | [Chart](https://www.tradingview.com/chart/?symbol=POWI) | Power Integrations Inc | POWI |
+| 32 | 74 | $22.01 | [Chart](https://www.tradingview.com/chart/?symbol=TDC) | TERADATA CORPORATION | TDC |
+| 30 | 73 | $113.83 | [Chart](https://www.tradingview.com/chart/?symbol=CPT) | Camden Property Trust | CPT |
+| 37 | 72 | $161.68 | [Chart](https://www.tradingview.com/chart/?symbol=NICE) | NICE Ltd | NICE |
+| 33 | 71 | $16.32 | [Chart](https://www.tradingview.com/chart/?symbol=CHCT) | Community Healthcare Trust Incorporated Common Stock, $0.01 par value per share | CHCT |
+| 36 | 69 | $31.61 | [Chart](https://www.tradingview.com/chart/?symbol=ZD) | Ziff Davis, Inc. Common Stock | ZD |
+| 38 | 68 | $33.31 | [Chart](https://www.tradingview.com/chart/?symbol=DAR) | DARLING INGREDIENTS INC. | DAR |
+| 36 | 66 | $14.60 | [Chart](https://www.tradingview.com/chart/?symbol=OBDC) | Blue Owl Capital Corporation | OBDC |
 
 ## **Methodology**
 
